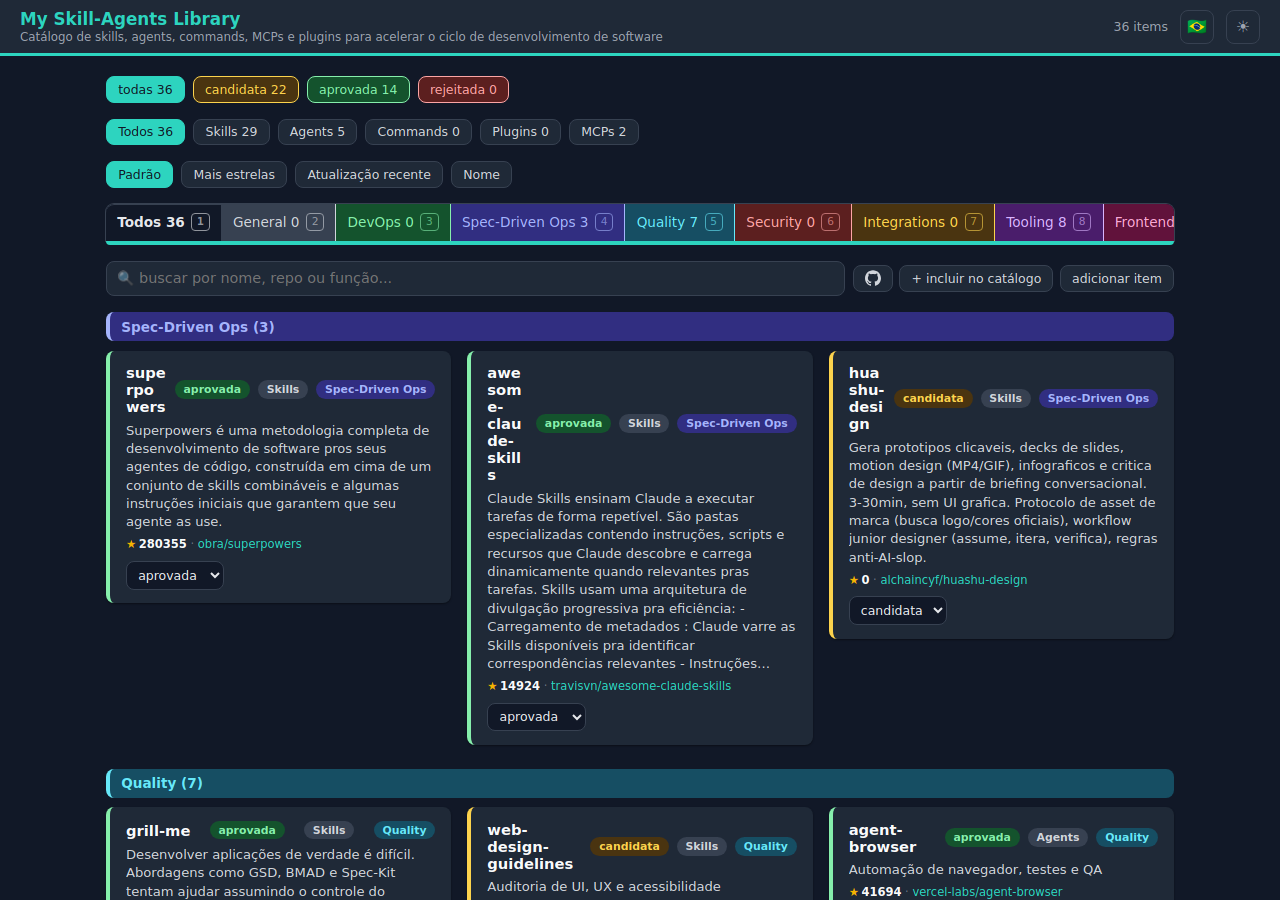
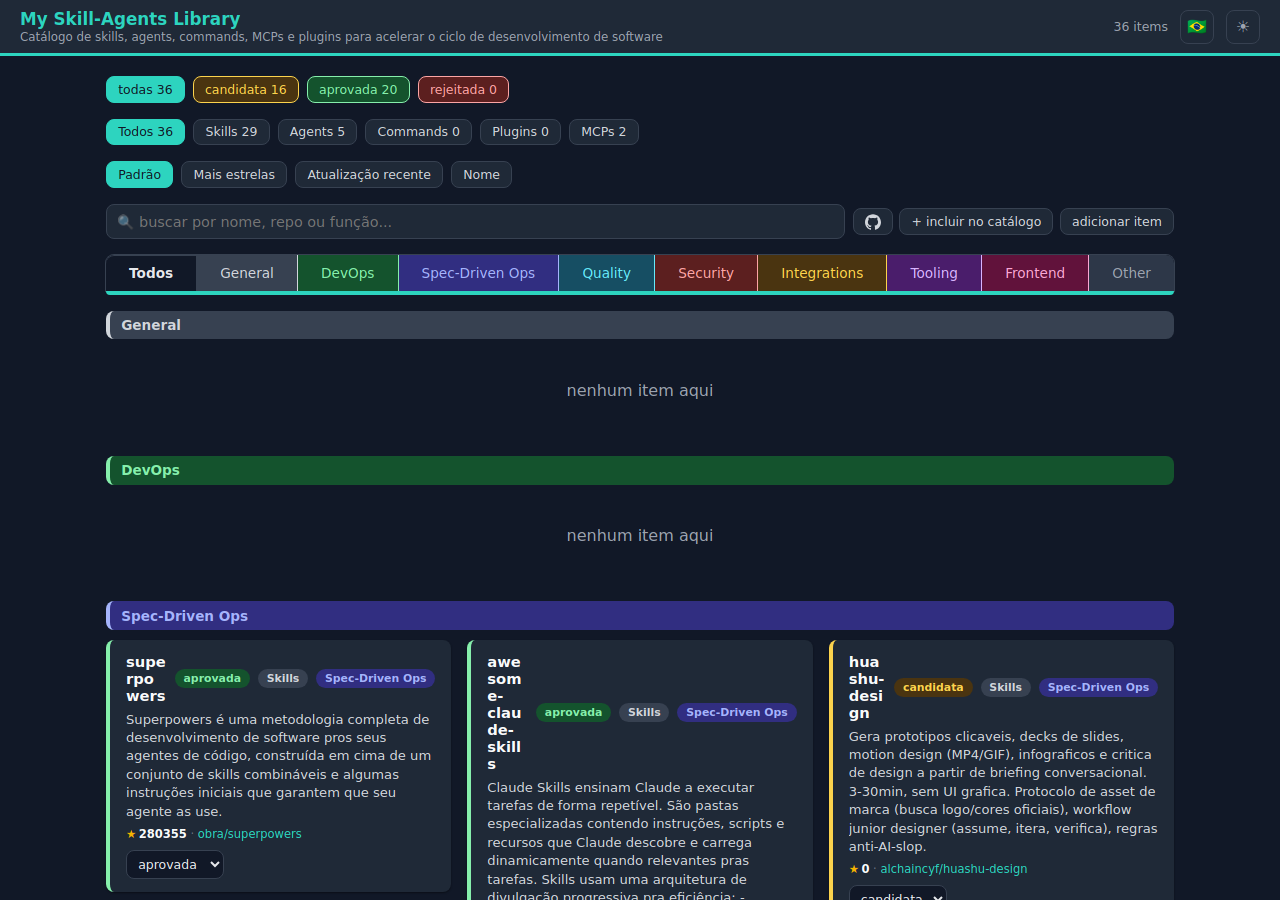
feat: move search box above the purpose tab bar
Search + GitHub-search/add-item buttons now render one line above the
purpose tab bar, instead of below it. Refreshed docs and screenshots.

Claude-Session: https://claude.ai/code/session_015HJhdv2NVHp8ftTBC2Pkqs

Changed region(s): [[0.0625, 0.2178, 0.9375, 1.0]]

diff --git a/src/generator.py b/src/generator.py
@@ -809,10 +809,10 @@ function render() {
   container.appendChild(renderFilters());
   container.appendChild(renderKindFilter());
   container.appendChild(renderSortFilter());
-  container.appendChild(renderPurposeFilter());
   container.appendChild(renderSearchBox());
   const ghResultsEl = renderGithubResults();
   if (ghResultsEl) container.appendChild(ghResultsEl);
+  container.appendChild(renderPurposeFilter());
 
   const q = searchQuery.trim().toLowerCase();
   const filtered = items.filter(

diff --git a/docs/CODEBASE_MAP.md b/docs/CODEBASE_MAP.md
@@ -157,7 +157,7 @@ tests/
 - `call(action, body)` POSTs to `/skill-library/api`; on failure throws an `Error` carrying `.code`/`.status` from the JSON error body.
 - `reload()` re-fetches the full list and re-renders client-side after every write — this is what hides the static page's regeneration latency from the user.
 - `renderSearchBox()` builds the local search input (filters `items` by name/repo/function substring, combined with the status/kind/purpose filters, purely client-side) plus a GitHub-mark button, a "+ incluir no catálogo" button that opens the add-item modal prefilled with the search text, and a plain "adicionar item" button that opens the same modal empty. Rendered below the status/kind/purpose/sort filters, not above them.
-- `renderFilters()` (status) and `renderPurposeFilter()` both color each pill/tab to match that value's card badge — `renderPillRow(className, allLabel, options, labelFn, active, onPick, countFn, colorClassFn)` is the shared pill-list builder (`colorClassFn` is optional, used by status → `"badge-"+s"` and previously by purpose). `renderPurposeFilter()` no longer calls `renderPillRow`: it returns a `.purpose-tab-wrap` containing the `.purpose-tabs`/`.purpose-tab` row (one full-width tab bar instead of a wrapping pill line, same `pill-purpose-*` color classes) plus a `.purpose-tab-accent` strip — a folder-tab effect: the active tab drops its bottom border (`.purpose-tab.active` backgrounds to `--bg`, merging into the page) and the accent strip below is set inline (`accent.style.background`) to that purpose's own `--c-<purpose>-fg` var, or `--accent` for "Todos" (`filterPurpose` null). Each tab carries a `<kbd class="tab-shortcut">` hint from `PURPOSE_TAB_KEYS` (`"1"` = Todos, `"2"..."9"` = each `PURPOSES` entry in order — `purposeTabTarget(key)` maps a key back to the purpose). A `document`-level `keydown` handler drives the same jump: any digit in `PURPOSE_TAB_KEYS`, outside an `INPUT`/`TEXTAREA`/`SELECT` and while no modal is open, sets `filterPurpose` and re-renders. `filterPurpose` still defaults to `null` ("Todos"), unchanged. Render order in `render()`: status pills, kind pills, sort pills, then the purpose tab bar, then the search box.
+- `renderFilters()` (status) and `renderPurposeFilter()` both color each pill/tab to match that value's card badge — `renderPillRow(className, allLabel, options, labelFn, active, onPick, countFn, colorClassFn)` is the shared pill-list builder (`colorClassFn` is optional, used by status → `"badge-"+s"` and previously by purpose). `renderPurposeFilter()` no longer calls `renderPillRow`: it returns a `.purpose-tab-wrap` containing the `.purpose-tabs`/`.purpose-tab` row (one full-width tab bar instead of a wrapping pill line, same `pill-purpose-*` color classes) plus a `.purpose-tab-accent` strip — a folder-tab effect: the active tab drops its bottom border (`.purpose-tab.active` backgrounds to `--bg`, merging into the page) and the accent strip below is set inline (`accent.style.background`) to that purpose's own `--c-<purpose>-fg` var, or `--accent` for "Todos" (`filterPurpose` null). Each tab carries a `<kbd class="tab-shortcut">` hint from `PURPOSE_TAB_KEYS` (`"1"` = Todos, `"2"..."9"` = each `PURPOSES` entry in order — `purposeTabTarget(key)` maps a key back to the purpose). A `document`-level `keydown` handler drives the same jump: any digit in `PURPOSE_TAB_KEYS`, outside an `INPUT`/`TEXTAREA`/`SELECT` and while no modal is open, sets `filterPurpose` and re-renders. `filterPurpose` still defaults to `null` ("Todos"), unchanged. Render order in `render()`: status pills, kind pills, sort pills, the search box (+ GitHub results panel), then the purpose tab bar, then the sections.
 - `renderAddModal()` / `openAddModal(prefillName)` / `closeAddModal()`: the add-item form (`EDITABLE` fields) now lives in a modal overlay (`addModalOpen` state), not a permanently-rendered card — same overlay/close pattern as `renderModal(item)`, closable via the "✕" button, a click on the overlay backdrop, or Escape.
 - `searchGithub()` does a direct, unauthenticated `fetch` to `api.github.com/search/repositories` from the browser — bypasses `api.py` entirely, so it's the one place besides `refresh_repo`/`enrich.py` that talks to GitHub, but from the client rather than the server (keeps the offline-first backend contract intact). Subject to GitHub's ~10 req/min unauthenticated rate limit.
 - `renderGithubResults()` / `renderGithubResultsHeader()` render the loading/error/empty/populated states of the GitHub search panel (name, description, ★ stars, link, a per-result "+ incluir" that POSTs `action: "add"` directly, and a "✕" that clears `ghResults`).

diff --git a/README.md b/README.md
@@ -153,14 +153,14 @@ persist an explicit choice in `localStorage`.
 
 <picture>
   <source media="(prefers-color-scheme: dark)" srcset="docs/screenshot-dark.png">
-  <img alt="My Skill-Agents Library: status and kind filter pills (status colored to match its cards), sort pills, a folder-style purpose tab bar with per-purpose colors, digit shortcuts and a colored strip under the active tab, a search box below them with GitHub-search and add-item buttons, 36 items in purpose-grouped sections colored by category, and a card grid" src="docs/screenshot-light.png">
+  <img alt="My Skill-Agents Library: status and kind filter pills (status colored to match its cards), sort pills, a search box with GitHub-search and add-item buttons, a folder-style purpose tab bar below it with per-purpose colors, digit shortcuts and a colored strip under the active tab, 36 items in purpose-grouped sections colored by category, and a card grid" src="docs/screenshot-light.png">
 </picture>
 
 The header carries the title, an item count, and the theme toggle. Below it:
-status pills (colored), kind pills, sort pills, the purpose tab bar
+status pills (colored), kind pills, sort pills, the search box with its
+GitHub-search, quick-add and add-item buttons, then the purpose tab bar
 (colored, digit shortcuts, folder-tab styling, always starting on "Todos"),
-then the search box with its GitHub-search, quick-add and add-item
-buttons, then one colored section per purpose holding that purpose's cards.
+then one colored section per purpose holding that purpose's cards.
 
 ---
 
